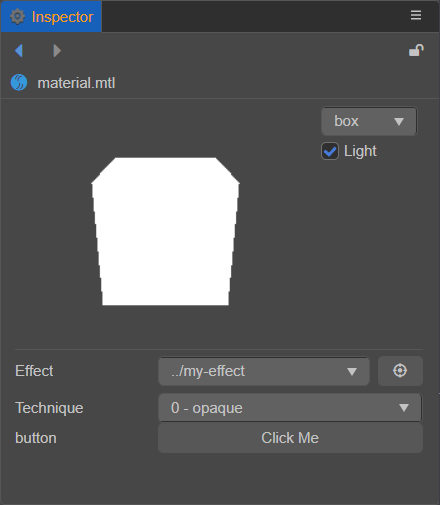
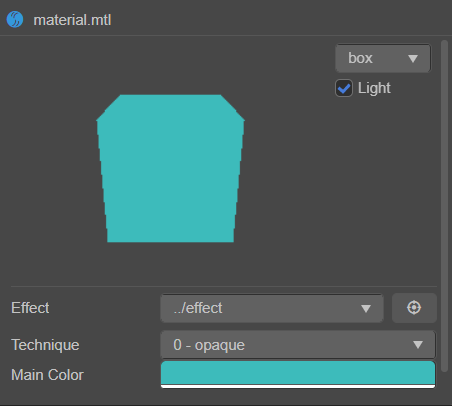
更新文档中的例子，新增demo的zip

diff --git a/zh/editor/extension/inspector-effect.md b/zh/editor/extension/inspector-effect.md
@@ -2,11 +2,59 @@
 
 inspector 针对 material 有一套自动渲染的机制，能够根据使用的 effect 自动渲染出操作界面。
 但有些特殊情况下，自动渲染并不能满足操作需求，所以 inspector 允许针对每一种 effect 定制 material 渲染界面。
+假设我们需要自定义一个 effect 的 inspector ，在 material 中要能修改它的 `mainColor` 属性。
+
+## 设置 effect 的代码
+
+我们新建一个名为 `my-effect` 的 effect 文件，然后在 effect 代码中进行如此设置：
+
+```yaml
+// Effect Syntax Guide: https://github.com/cocos-creator/docs-3d/blob/master/zh/material-system/effect-syntax.md
+
+CCEffect %{
+  editor:
+    inspector: 'packages://my-effect-extension/my-effect.js'
+  techniques:
+  - name: opaque
+    passes:
+    - vert: general-vs:vert # builtin header
+      frag: unlit-fs:frag
+      properties: &props
+        mainTexture:    { value: white }
+        mainColor:      { value: [1, 1, 1, 1], editor: { type: color } }
+}%
+
+CCProgram unlit-fs %{
+  precision highp float;
+  #include <output>
+  #include <cc-fog-fs>
+
+  in vec2 v_uv;
+  uniform sampler2D mainTexture;
+
+  uniform Constant {
+    vec4 mainColor;
+  };
+
+  vec4 frag () {
+    vec4 col = mainColor * texture(mainTexture, v_uv);
+    CC_APPLY_FOG(col);
+    return CCFragOutput(col);
+  }
+}%
+
+```
+
+更多关于 effect 的定义方式请参考 [Effect Syntax Guide](https://github.com/cocos-creator/docs-3d/blob/master/zh/material-system/effect-syntax.md)
+
+## 定义一个插件
+
+首先我们需要一个扩展，关于创建扩展的方法请参考 [创建扩展](./create-extension.md)
 
 ## 定义 inspector
 
-首先我们需要一个扩展，假设我们开启了一个名为 `my-extension` 的扩展。
-然后在 `my-extension` 目录下定义一个js脚本 `my-effect`，脚本的内容如下：
+假设我们开启了一个名为 `my-effect-extension` 的扩展。
+然后在 `my-effect-extension` 目录下定义一个js脚本 `my-effect`，脚本的内容如下：
 
 ```js
 "use strict";
@@ -14,25 +62,54 @@ inspector 针对 material 有一套自动渲染的机制，能够根据使用的
 module.exports = {
     template: `
     <ui-prop>
-        <ui-label slot="label" value="button"></ui-label>
-        <ui-button slot="content">Click Me</ui-button>
+        <ui-label slot="label" value="Main Color"></ui-label>
+        <ui-color id="color" slot="content"></ui-color>
     </ui-prop>
     `,
     $: {
-        button: 'ui-button'
+        color: '#color',
     },
-    ready(){
-        this.$.button.addEventListener('confirm',(event)=>{
-            console.log(this.material);
-        })
+    methods: {
+        /**
+         * 
+         * @param {{r:number,g:number,b:number,a:number}} color 
+         * @returns 
+         */
+        colorToUIColor(color) {
+            return [color.r, color.g, color.b, color.a];
+        },
+        /**
+         * 
+         * @param {number[]} UIColor 
+         * @returns 
+         */
+        UIColorToColor(UIColor) {
+            return { r: UIColor[0], g: UIColor[1], b: UIColor[2], a: UIColor[3] };
+        }
     },
     update(material, assetList, metaList) {
-        this.material = material
-    }
-};
+        this.material = material;
+        // 找到材质中的颜色
+        this.mainColor = this.material.data[0].passes[0].props.find(prop => { return prop.name === 'mainColor'; });
+        // 同步面板与材质的颜色
+        this.$.color.value = this.colorToUIColor(this.mainColor.value);
+    },
+    ready() {
+        if (this.$.color) {
+            // 监听颜色变换
+            this.$.color.addEventListener('confirm', (event) => {
+                // 设置材质的颜色
+                this.mainColor.value = this.UIColorToColor(event.target.value);
+                // 发送修改事件，通知面板材质被修改了
+                this.dispatch('change');
+            })
+        }
+    },
+}
+
 ```
 
-update 的方法参数详情如下表
+update 的参数详情如下表
 
 | 参数名    | 参数含义                       |
 | --------- | ------------------------------ |
@@ -42,25 +119,12 @@ update 的方法参数详情如下表
 
 关于 assetList 和 metaList 的定义请参考 [inspector](./inspector.md)。
 
-## inspector 的使用方法
-
-我们可以根据需求修改 update 中传入的参数，
-在修改后需要调用 `this.dispatch('change');` 以通知面板数据被修改。
-
-## 设置 effect 的代码
-
-我们新建一个名为 `my-effect` 的 effect 文件，然后在 effect 代码中进行如此设置：
-
-```yaml
-CCEffect %{
-  editor:
-    inspector: 'packages://my-extension/my-effect.js'
-  ...
-}
-```
-
 ## 最终效果
 
-新建一个 material ，然后在 material 设置 effect 为 `my-effect`，可以看到如下画面。
+新建一个 material ，然后在 material 设置 effect 为 `my-effect`，修改面板的 Main Color 的值并且在面板点击确认后，可以看到如下画面。
 
 ![custom-effect-inspector](./image/custom-effect-inspector.png)
+
+## Demo
+
+点击下载完整的 [demo](./zip/effect-inspector-project.zip)
